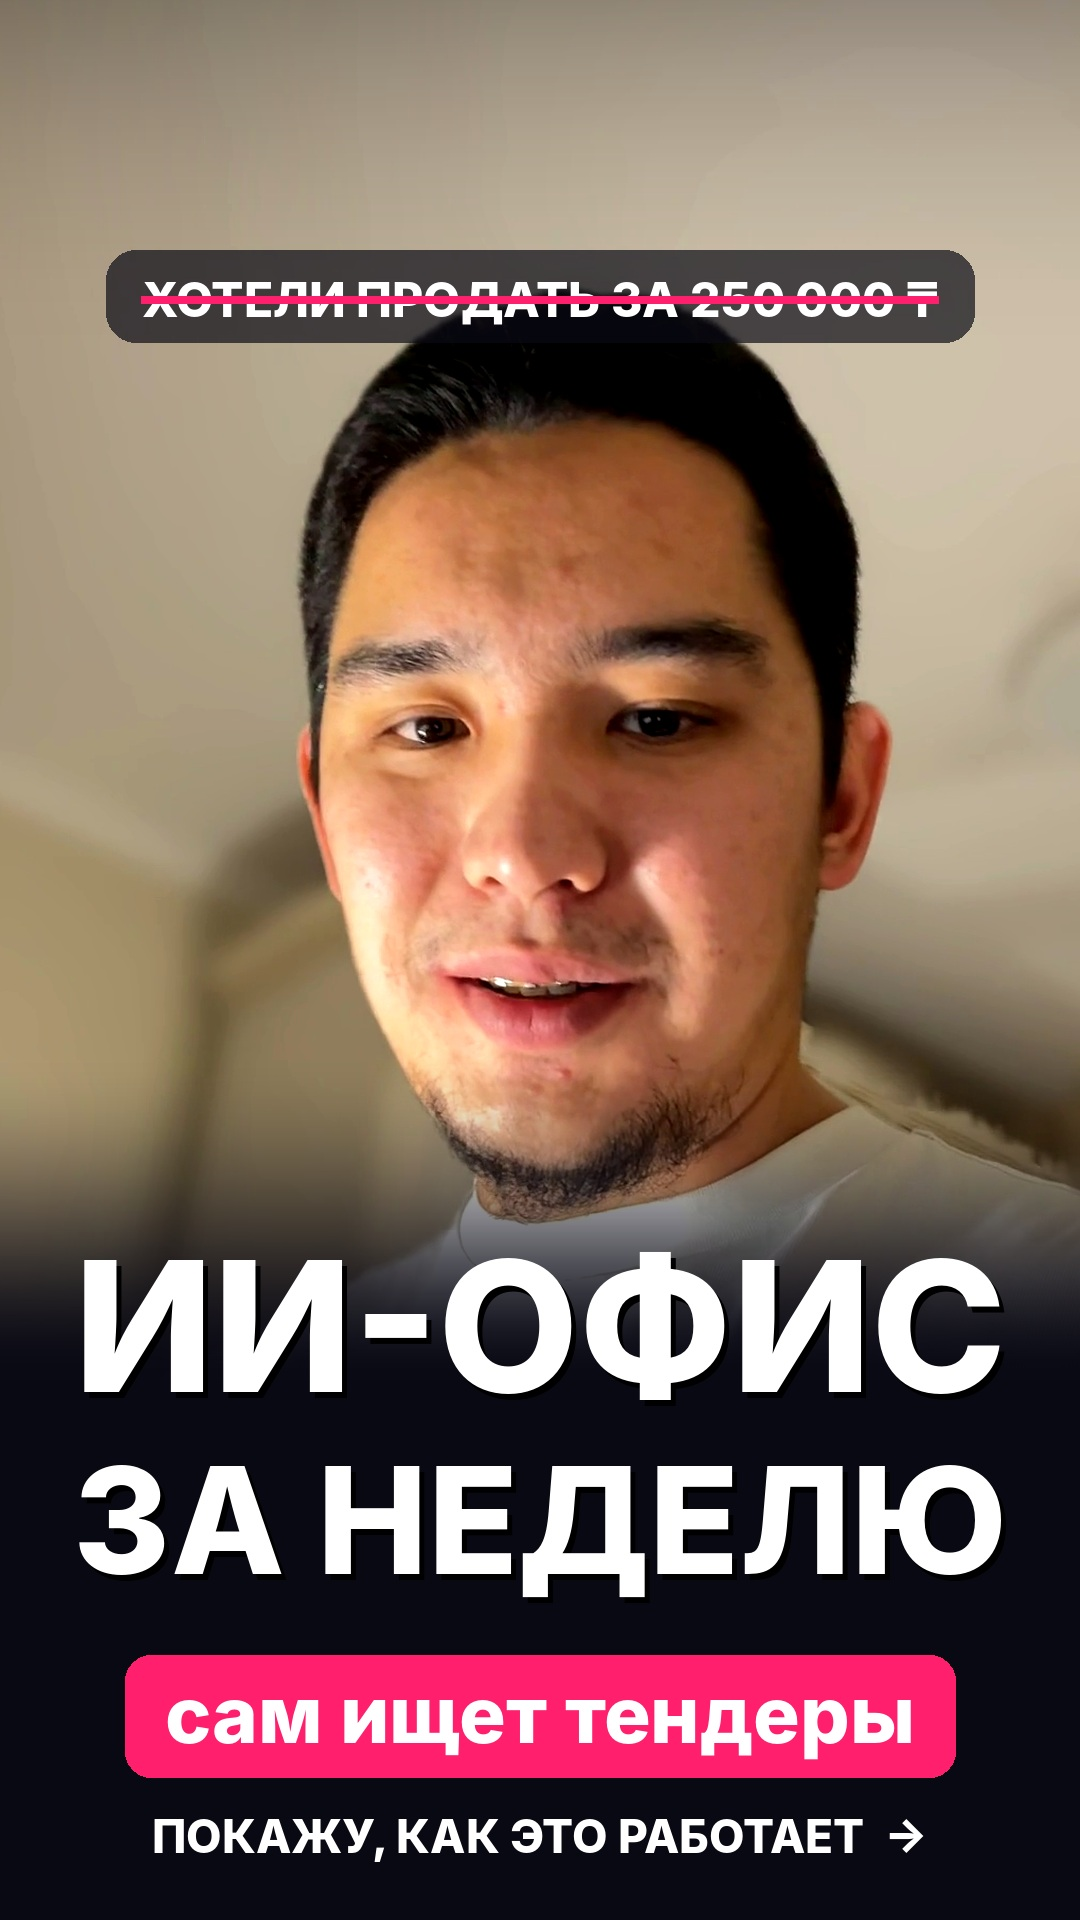
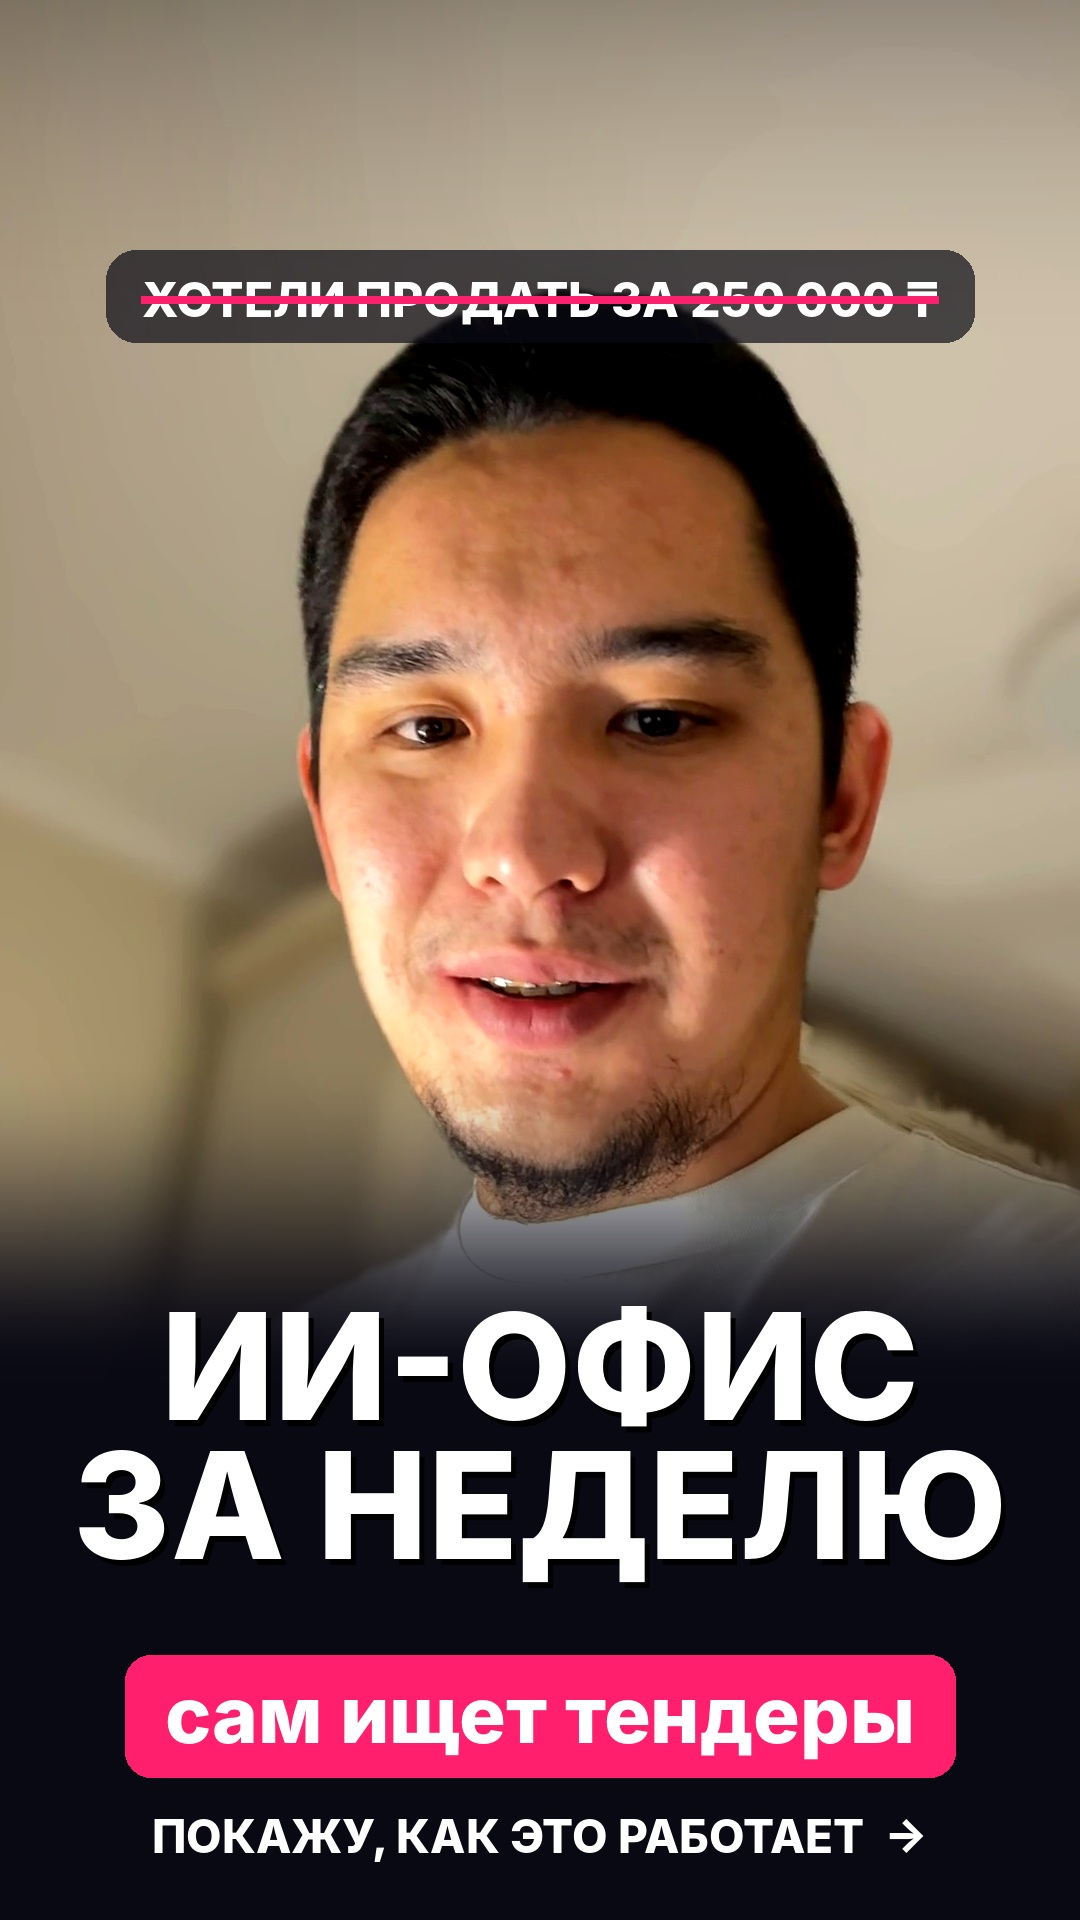
Add tenders reel cover, parametrize cover script
Claude-Session: https://claude.ai/code/session_01DLTSzPkxy7Bh913uRP927L

Changed region(s): [[0.0611, 0.6562, 0.9472, 0.8438]]

diff --git a/edit/make_cover.py b/edit/make_cover.py
@@ -8,6 +8,11 @@ from PIL import Image, ImageDraw, ImageFont, ImageFilter, ImageEnhance
 
 ap = argparse.ArgumentParser()
 ap.add_argument("video"); ap.add_argument("dst"); ap.add_argument("--t", type=float, default=44)
+ap.add_argument("--top", default="ХОТЕЛИ ПРОДАТЬ ЗА 250 000 ₸", help="плашка сверху")
+ap.add_argument("--strike", type=int, default=1, help="зачеркнуть текст верхней плашки")
+ap.add_argument("--h1", default="ИИ-ОФИС"); ap.add_argument("--h2", default="ЗА НЕДЕЛЮ")
+ap.add_argument("--pill", default="сам ищет тендеры")
+ap.add_argument("--cta", default="ПОКАЖУ, КАК ЭТО РАБОТАЕТ  →")
 a = ap.parse_args()
 W, H = 1080, 1920
 png = subprocess.run(["ffmpeg", "-v", "error", "-ss", str(a.t), "-i", a.video, "-frames:v", "1",
@@ -48,7 +53,7 @@ def centered(text, y, f, fill):
     w = f.getlength(text); d.text((cx - w / 2, y), text, font=f, fill=fill); return w
 
 # 1) зачёркнутая цена - плашка сверху (на спокойной стене)
-txt = "ХОТЕЛИ ПРОДАТЬ ЗА 250 000 ₸"
+txt = a.top
 f1 = fit(txt, 800, 58)
 w = f1.getlength(txt)
 ov = Image.new("RGBA", (W, H), (0, 0, 0, 0)); od = ImageDraw.Draw(ov)
@@ -56,25 +61,28 @@ od.rounded_rectangle([cx - w / 2 - 36, 250, cx + w / 2 + 36, 250 + f1.size + 44]
 img = Image.alpha_composite(img.convert("RGBA"), ov).convert("RGB"); d = ImageDraw.Draw(img)
 centered(txt, 250 + 20, f1, (255, 255, 255))
 yl = 250 + 20 + f1.size * 0.62
-d.line([(cx - w / 2, yl), (cx + w / 2, yl)], fill=PINK, width=8)
+if a.strike: d.line([(cx - w / 2, yl), (cx + w / 2, yl)], fill=PINK, width=8)
 
 # 2) главный заголовок
-for i, line in enumerate(["ИИ-ОФИС", "ЗА НЕДЕЛЮ"]):
-    f = fit(line, 940, 230)
-    y = 1215 + i * 215
+lines = [a.h1, a.h2]
+fsz = min(fit(l, 940, 230).size for l in lines)   # одинаковый размер строк
+f = font(fsz)
+for i, line in enumerate(lines):
+    block = fsz * (0.94 * (len(lines) - 1) + 1)
+    y = int(1200 + max(0, (440 - block) / 2) + i * fsz * 0.94)
     # тень для читаемости
     d.text((cx - f.getlength(line) / 2 + 5, y + 6), line, font=f, fill=(0, 0, 0))
     centered(line, y, f, (255, 255, 255))
 
 # 3) розовая плашка
-f3 = fit("сам ищет тендеры", 780, 78)
-t3 = "сам ищет тендеры"; w3 = f3.getlength(t3)
+t3 = a.pill
+f3 = fit(t3, 900, 78); w3 = f3.getlength(t3)
 px, py, ph = cx - w3 / 2 - 40, 1655, f3.size + 44
 d.rounded_rectangle([px, py, px + w3 + 80, py + ph], radius=26, fill=PINK)
 d.text((cx - w3 / 2, py + 12), t3, font=f3, fill=(255, 255, 255))
 
 # 4) призыв внизу (вне безопасной зоны сетки, но видно в ленте)
-f4 = font(46); t4 = "ПОКАЖУ, КАК ЭТО РАБОТАЕТ  →"
+f4 = font(46); t4 = a.cta
 centered(t4, 1808, f4, (255, 255, 255))
 img.save(a.dst)
 img.convert("RGB").save(a.dst.rsplit(".", 1)[0] + ".jpg", quality=94)
